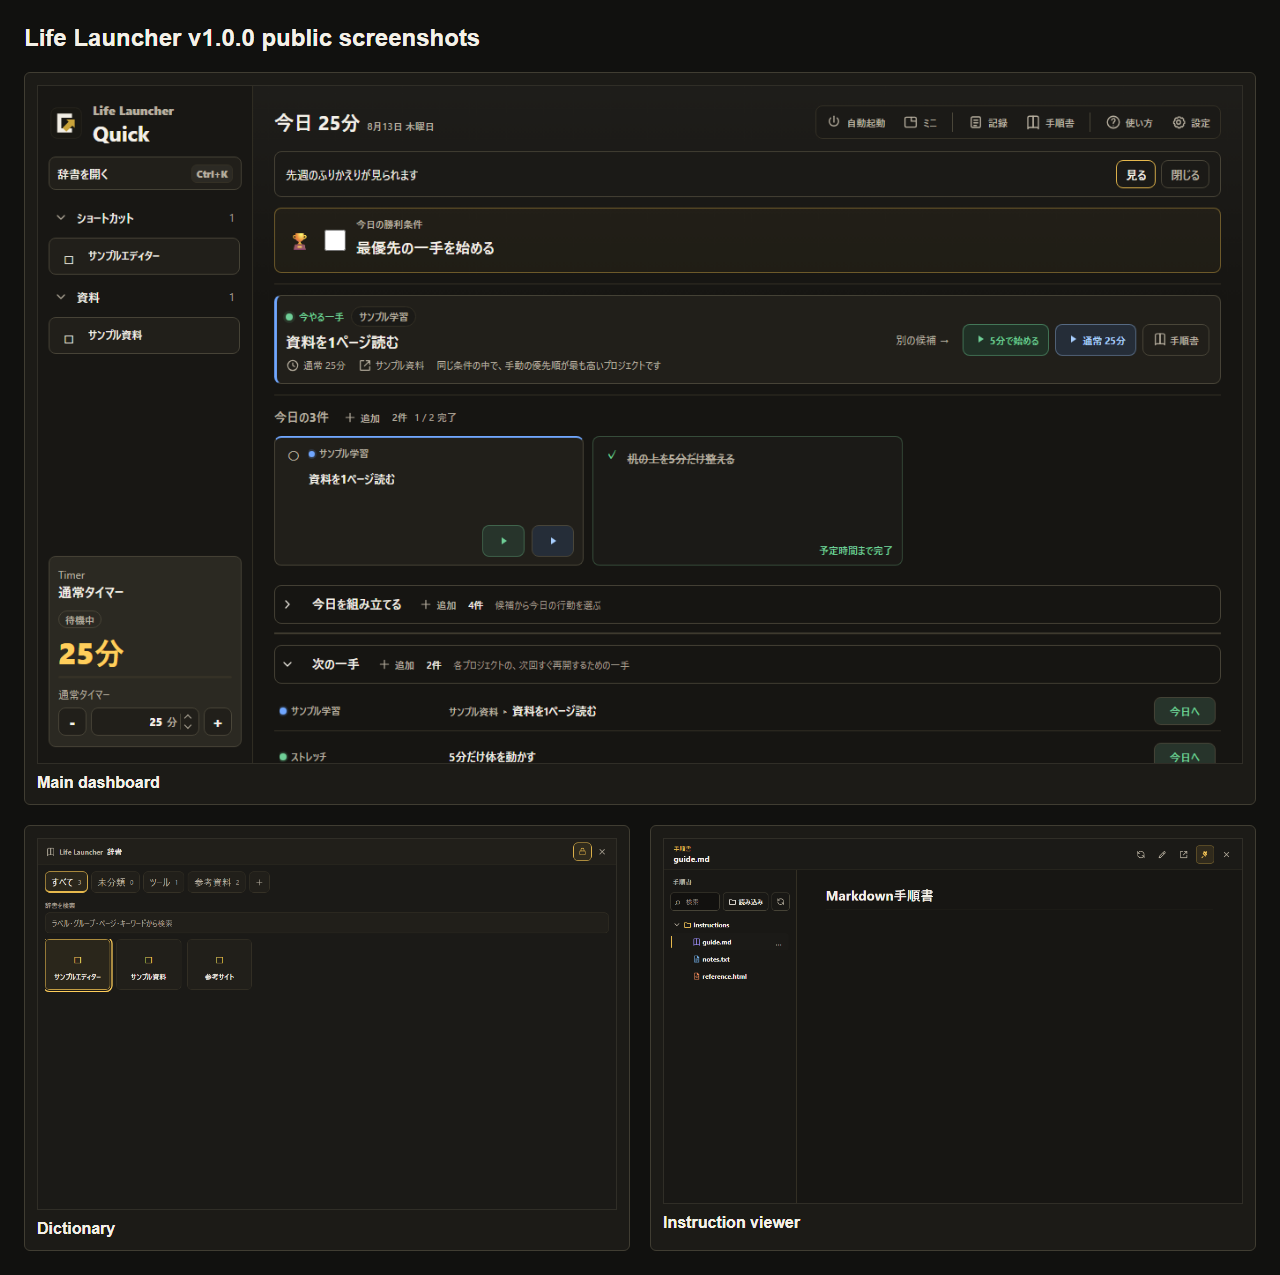
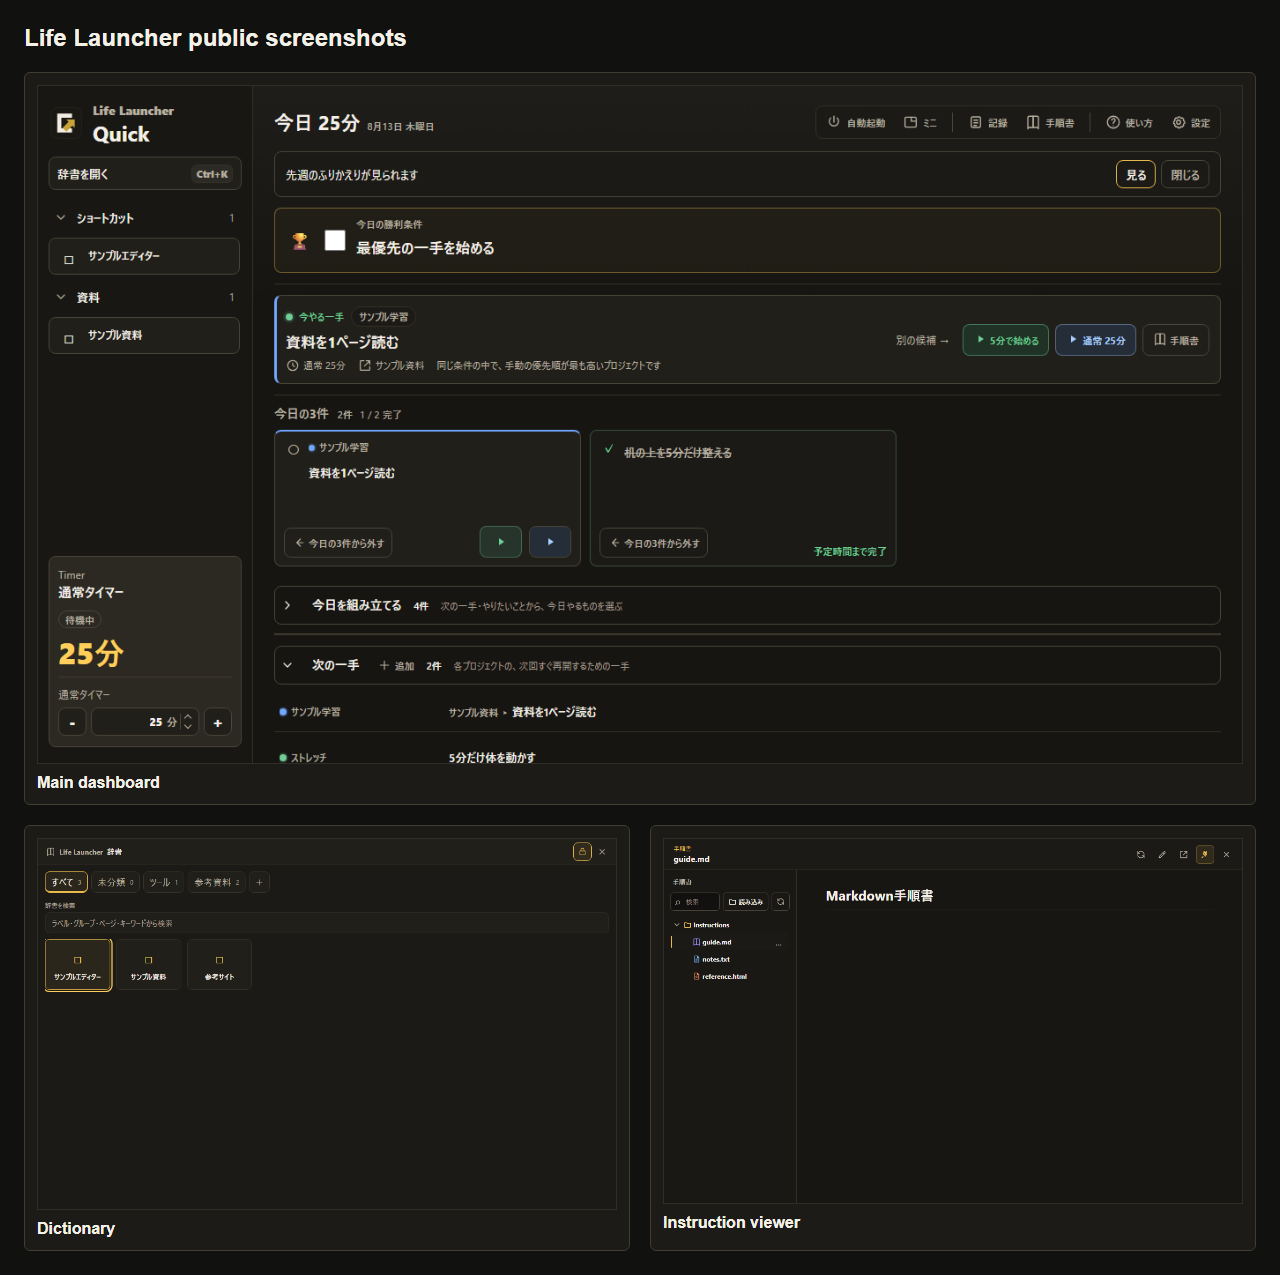
docs: update Japanese and English READMEs for v1.1

diff --git a/tests/visual/readme-contract.spec.ts b/tests/visual/readme-contract.spec.ts
@@ -1,0 +1,36 @@
+import { expect, test } from "@playwright/test";
+import { existsSync, readFileSync } from "node:fs";
+import { resolve } from "node:path";
+
+const version = JSON.parse(readFileSync("package.json", "utf8")).version as string;
+const readmes = ["README.md", "README.en.md"];
+
+for (const file of readmes) {
+  test(`${file} describes current downloads and links to existing local documents`, () => {
+    const text = readFileSync(file, "utf8");
+    expect(text).toContain("https://github.com/Takuyakou/life-launcher/releases/latest");
+    expect(text).not.toContain("releases/tag/v1.0.0");
+    for (const suffix of ["-setup.exe", ".exe", "-portable.zip"]) {
+      expect(text).toContain(`Life-Launcher-v${version}-windows-x64${suffix}`);
+    }
+    expect(text).toContain("SHA256SUMS.txt");
+    expect(text).toContain("%APPDATA%\\life-launcher");
+    expect(text).toContain("SmartScreen");
+    expect(text).toContain("source key");
+    const paths = [
+      ...Array.from(text.matchAll(/\]\(([^)]+)\)/g), (match) => match[1]),
+      ...Array.from(text.matchAll(/src="([^"]+)"/g), (match) => match[1]),
+    ].filter((path) => !/^https?:/.test(path));
+    for (const path of paths) {
+      expect(existsSync(resolve(path)), `${file}: missing ${path}`).toBe(true);
+    }
+  });
+}
+
+test("Japanese and English READMEs share the same downloads and images", () => {
+  const extract = (file: string) => {
+    const text = readFileSync(file, "utf8");
+    return Array.from(text.matchAll(/https:\/\/github\.com\/Takuyakou\/life-launcher\/releases\/[^)\s]+|docs\/screenshots\/[\w.-]+\.png/g), match => match[0]).sort();
+  };
+  expect(extract(readmes[0])).toEqual(extract(readmes[1]));
+});

diff --git a/tests/visual/public-screenshots.spec.ts b/tests/visual/public-screenshots.spec.ts
@@ -80,7 +80,7 @@ test("create public screenshot contact sheet", async ({ page }) => {
     figure{margin:0;padding:12px;background:#1c1b17;border:1px solid #403d32;border-radius:6px}
     figure:first-child{grid-column:1/-1}img{display:block;width:100%;height:auto;border:1px solid #302e27}
     figcaption{margin-top:10px;font-weight:600}
-  </style></head><body><h1>Life Launcher v1.0.0 public screenshots</h1><div class="grid">
+  </style></head><body><h1>Life Launcher public screenshots</h1><div class="grid">
     ${items.map((item) => `<figure><img src="${item.source}" alt=""><figcaption>${item.label}</figcaption></figure>`).join("")}
   </div></body></html>`);
   await page.screenshot({ path: resolve(SCREENSHOT_DIR, "contact-sheet.png"), fullPage: true });

diff --git a/README.en.md b/README.en.md
@@ -6,7 +6,7 @@
 
 Life Launcher is a local-first Windows desktop app that presents one next step, opens the environment needed for it, and helps you move from deciding to starting.
 
-[Download Life Launcher for Windows](https://github.com/Takuyakou/life-launcher/releases/tag/v1.0.0)
+[Download Life Launcher for Windows](https://github.com/Takuyakou/life-launcher/releases/latest)
 
 ![Life Launcher main dashboard](docs/screenshots/main-dashboard.png)
 
@@ -18,7 +18,9 @@ Try the central Life Launcher flow in your browser without installing the Window
 
 <img src="docs/screenshots/web-demo.png" alt="Life Launcher Web Demo" width="720">
 
-The Web Demo uses synthetic data and stores changes in your browser's localStorage. It simulates the “start and prepare the environment” flow without launching local apps, files, or URLs. Note: it is not a complete port of the Windows product.
+The Web Demo uses synthetic data to demonstrate the central v1.1 flow, including choosing today's items, running timers, and removing an item from Today's Three. Changes are stored in your browser's localStorage. Launching apps, files, and URLs is simulated rather than performed.
+
+Note: it is not a complete port of the Windows product.
 
 ## Highlights
 
@@ -26,13 +28,19 @@ The Web Demo uses synthetic data and stores changes in your browser's localStora
   Presents one next step from this week's focus using fixed, explainable rules.
 
 - **Daily Victory / Today's Three**
-  Define one condition for a successful day and limit today's work to at most three items.
+  Define one condition for a successful day and limit today's work to at most three items. Start from project-colored cards; an item is completed after its planned timer expires and you confirm the session. Once all three are complete, choose the next three yourself.
+
+- **Today Builder / Wishlist**
+  Browse next-step and wishlist candidates five at a time, then add them to today. Each adopted item retains its text, instruction reference, launch-environment references, and timer durations, keeping today's plan stable when its source is edited later.
+
+- **Remove from Today's Three**
+  Use the card's lower-left button or context menu to remove only its adoption into today, without a confirmation dialog. The original source, candidate, and session records remain. Removal is blocked while that item's timer is running, paused, or awaiting expiry confirmation.
 
 - **Quick Launcher / Dictionary**
-  Register apps, folders, files, and URLs, then open them from the sidebar or `Ctrl+K` search.
+  Register apps, folders, files, and URLs, then open them from the sidebar or `Ctrl+K` search. Navigate the dictionary with arrow keys; on multiple monitors, it opens on the same screen as the main app.
 
 - **Timer / Session Records**
-  Start a short or normal timer and store sessions of at least one minute locally.
+  Start a short or normal timer and store sessions of at least one minute locally. Stopping early does not complete today's item. Session completion is also separate from completing or deleting the source entry itself.
 
 - **Instruction Viewer**
   Read Markdown, text, and sanitized HTML files from registered folders in a separate window.
@@ -49,29 +57,39 @@ The screenshots are generated from synthetic data. They do not contain real user
 
 ## Download
 
-Download Life Launcher from [GitHub Releases](https://github.com/Takuyakou/life-launcher/releases/tag/v1.0.0).
+Download Life Launcher from [GitHub Releases](https://github.com/Takuyakou/life-launcher/releases/latest). The current stable release is **v1.1.0**.
 
 ### Installer - Recommended
 
 Use this for the standard installation flow.
 
-`Life-Launcher-v1.0.0-windows-x64-setup.exe`
+`Life-Launcher-v1.1.0-windows-x64-setup.exe`
 
 ### Standalone EXE
 
 Run the app directly without installing it.
 
-`Life-Launcher-v1.0.0-windows-x64.exe`
+`Life-Launcher-v1.1.0-windows-x64.exe`
 
 ### Portable ZIP
 
-Extract the ZIP archive and run the portable app.
+Extract the ZIP archive and run the app.
 
-`Life-Launcher-v1.0.0-windows-x64-portable.zip`
+`Life-Launcher-v1.1.0-windows-x64-portable.zip`
+
+The ZIP edition also stores user data in `%APPDATA%\life-launcher`. It does not carry your data alongside the executable on a USB drive.
 
 > The current Windows binaries are not code-signed, so Windows SmartScreen may display a warning. Microsoft Edge WebView2 Runtime is required.
 
 You can verify the release files with the included `SHA256SUMS.txt`.
+
+## Updating From v1.0
+
+Fully exit Life Launcher and back up the `%APPDATA%\life-launcher` folder to another location before updating. There is no automatic updater.
+
+Legacy Today's Three items without a source key revert from completed to incomplete during migration. Session records are not deleted. This migration alone does not guarantee an automatic backup before configuration is rewritten.
+
+See the [v1.1.0 release notes](docs/releases/v1.1.0.md) and [changelog](CHANGELOG.md) for details. The [overview](docs/OVERVIEW.md) and [current specification](docs/spec/current-spec.md) cover the wider feature set. These detailed documents are currently in Japanese.
 
 ## Runtime Requirements
 
@@ -129,7 +147,7 @@ See [PRIVACY.md](PRIVACY.md) and [SECURITY.md](SECURITY.md) for details.
 
 ## Public Source
 
-This repository starts at Life Launcher v1.0.0 with a clean public history. It intentionally excludes private development history, internal plans and reports, real runtime data, private screenshots, build outputs, and release binaries.
+This repository starts at Life Launcher v1.0.0 with a clean public history. It does not include the original private development history or real user data. Specifications and verification records created for public development are maintained here; release binaries are hosted on GitHub Releases.
 
 ## License
 

diff --git a/docs/screenshots/README.md b/docs/screenshots/README.md
@@ -14,8 +14,8 @@ npm.cmd run screenshot:public
 | `dictionary.png` | Dictionary, 1000 x 640 | PASS - synthetic launcher entries only |
 | `instruction-viewer.png` | Instruction Viewer, 1080 x 680 | PASS - synthetic instruction tree and content only |
 | `contact-sheet.png` | Combined Windows product review sheet | PASS - contains only the three Windows product images above |
-| `web-demo.png` | Web Demo landing page, 1440 x 900 | PASS - synthetic public landing page only |
+| `web-demo.png` | Web Demo v1.1 dashboard, including Today3 removal | PASS - synthetic public demo data only |
 
 The Windows screenshot test fixes the date and time, installs a Tauri API mock before navigation, disables animation and caret rendering, uses a dedicated local Vite port, and never reads real application data.
 
-`web-demo.png` is copied from the public `docs/screenshots/web-demo.png` asset in [Takuyakou/life-launcher-web](https://github.com/Takuyakou/life-launcher-web). That asset is produced and reviewed through the Web Demo repository's Playwright Visual QA workflow.
+The Windows images were regenerated for the v1.1 README update. `web-demo.png` is copied from the public `docs/screenshots/web-demo-v1.1.png` asset in [Takuyakou/life-launcher-web](https://github.com/Takuyakou/life-launcher-web). That asset is produced and reviewed through the Web Demo repository's Playwright Visual QA workflow.
